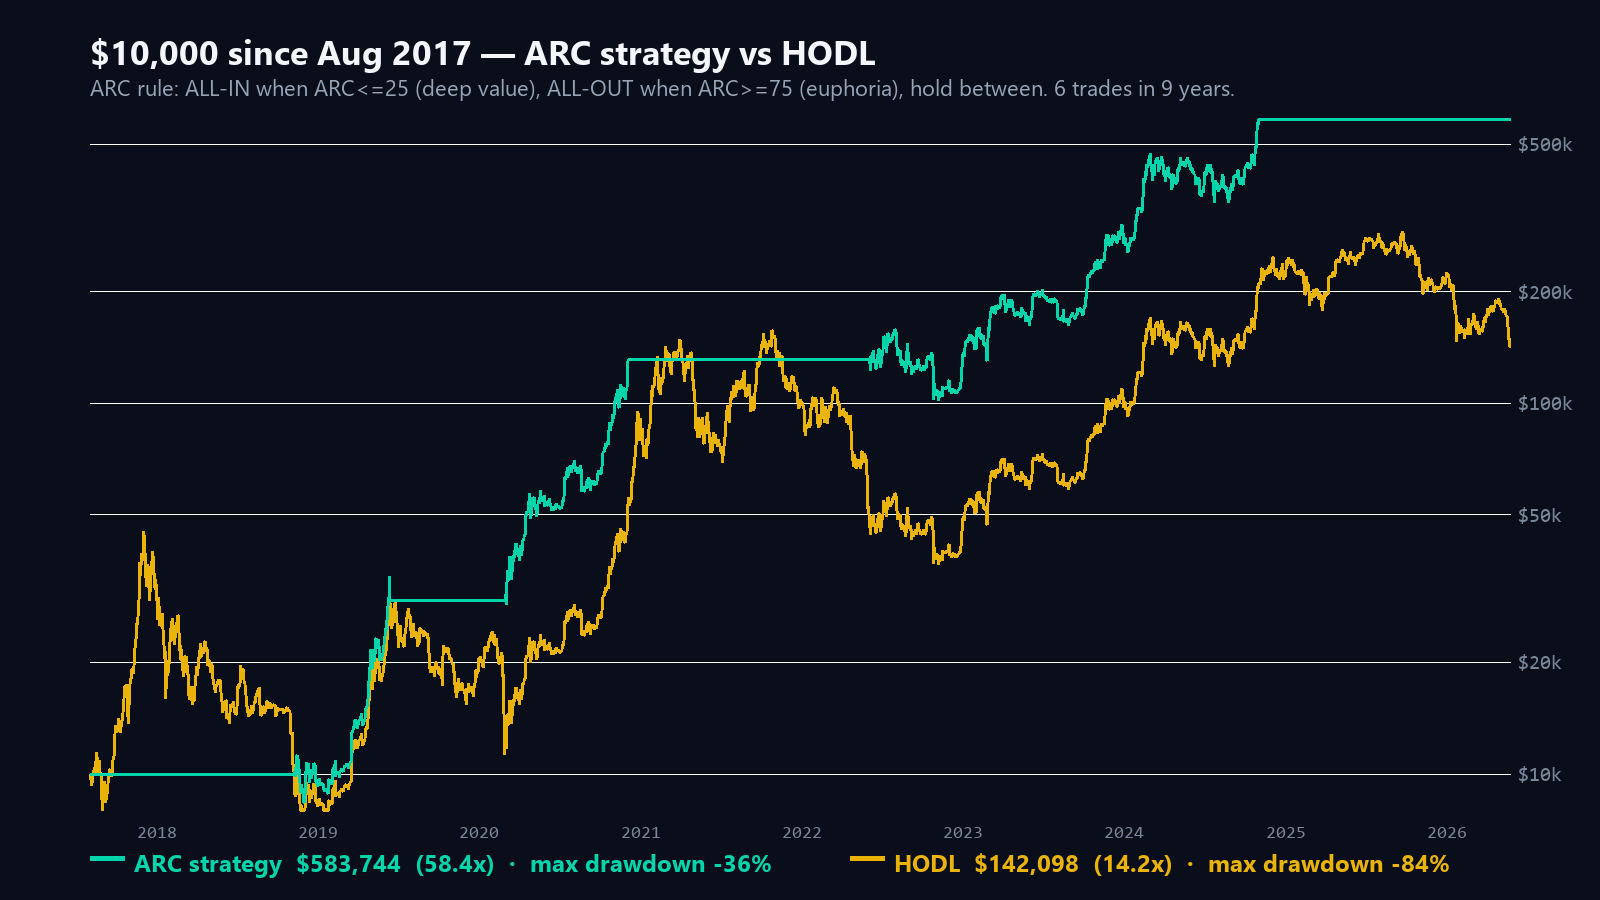
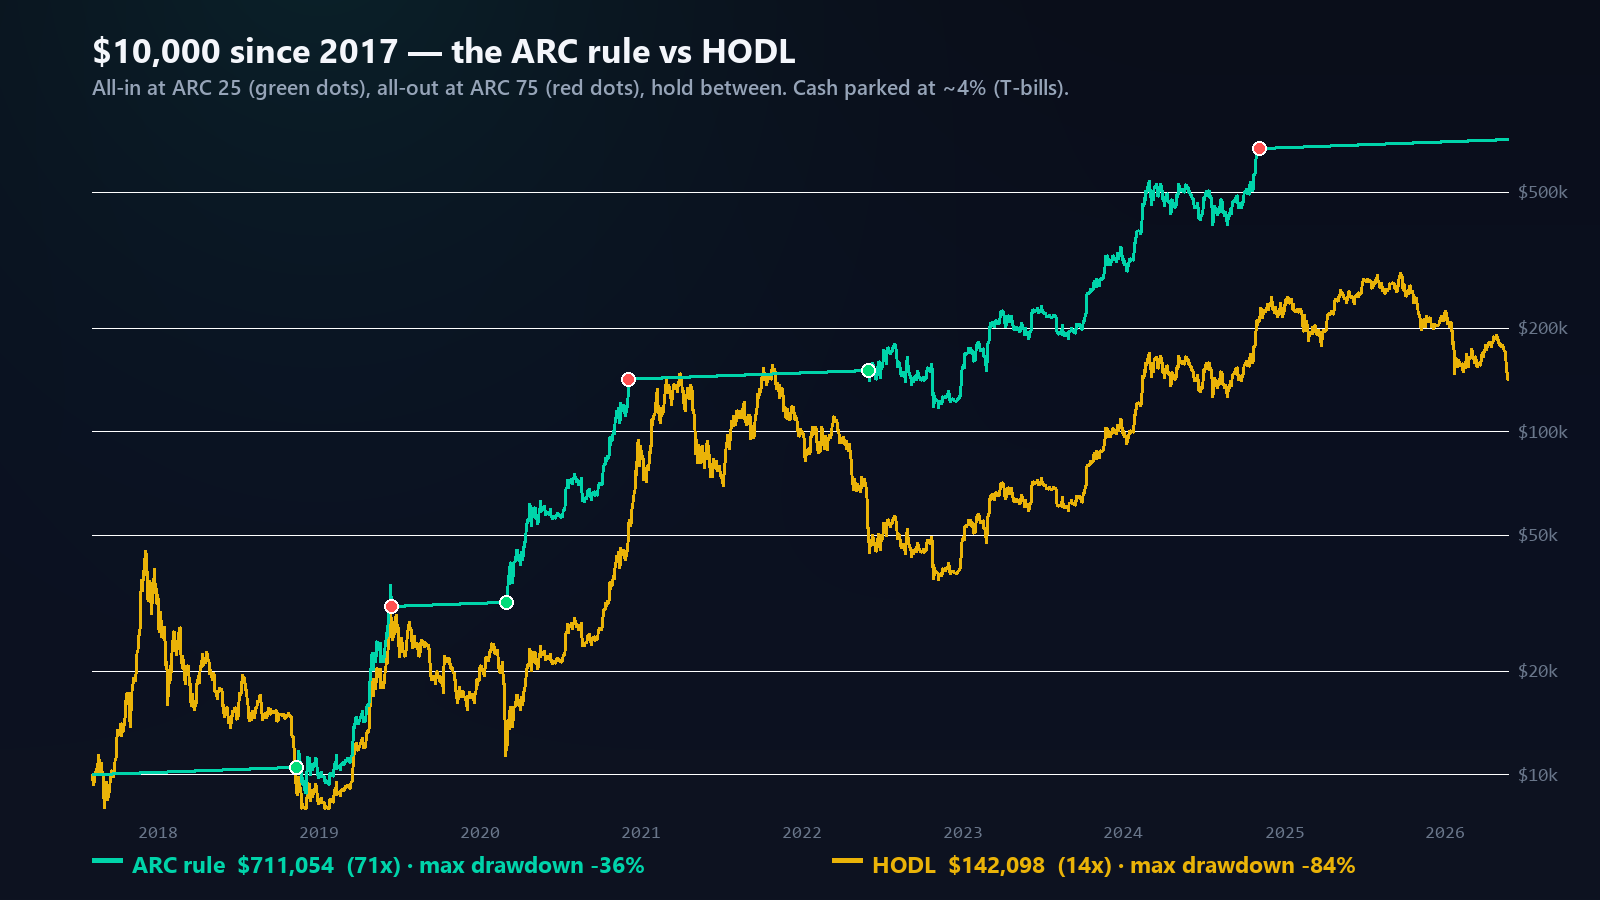
Proof chart: 4% cash yield (no dead-flat line) + buy/sell markers + on-brand styling; numbers updated to 711k/71x/5.0x across landing + dashboard + FAQ

diff --git a/index.html b/index.html
@@ -304,8 +304,8 @@
 <!-- SOCIAL PROOF -->
 <div class="proof reveal">
   <div class="wrap proof-in">
-    <div class="proof-stat"><b>58×</b>$10k → $584k since 2017 (the rule)</div>
-    <div class="proof-stat"><b>4.1×</b>more than buy &amp; hold</div>
+    <div class="proof-stat"><b>71×</b>$10k → $711k since 2017 (the rule)</div>
+    <div class="proof-stat"><b>5.0×</b>more than buy &amp; hold</div>
     <div class="proof-stat"><b>−36%</b>max drawdown vs −84% holding</div>
     <div class="proof-stat"><b>2017</b>backtested on daily data since</div>
   </div>
@@ -320,9 +320,9 @@
       <p>One rule: all-in at ARC 25, all-out at ARC 75, hold the middle. Independently backtested on daily Bitcoin data since August 2017.</p>
     </div>
     <div class="reveal" style="display:flex;gap:18px;flex-wrap:wrap;justify-content:center;margin-bottom:26px;">
-      <div class="ps-card" style="text-align:center;padding:22px 32px;flex:1;min-width:180px;"><div style="font-family:var(--mono);font-size:12px;color:var(--mut);">ARC RULE</div><div style="font-size:34px;font-weight:700;color:var(--amber);line-height:1.2;">$584k</div><div style="font-size:13px;color:var(--mut);">58× · −36% drawdown</div></div>
+      <div class="ps-card" style="text-align:center;padding:22px 32px;flex:1;min-width:180px;"><div style="font-family:var(--mono);font-size:12px;color:var(--mut);">ARC RULE</div><div style="font-size:34px;font-weight:700;color:var(--amber);line-height:1.2;">$711k</div><div style="font-size:13px;color:var(--mut);">71× · −36% drawdown</div></div>
       <div class="ps-card" style="text-align:center;padding:22px 32px;flex:1;min-width:180px;"><div style="font-family:var(--mono);font-size:12px;color:var(--mut);">HODL</div><div style="font-size:34px;font-weight:700;color:#eab308;line-height:1.2;">$142k</div><div style="font-size:13px;color:var(--mut);">14× · −84% drawdown</div></div>
-      <div class="ps-card" style="text-align:center;padding:22px 32px;flex:1;min-width:180px;"><div style="font-family:var(--mono);font-size:12px;color:var(--mut);">EDGE</div><div style="font-size:34px;font-weight:700;color:var(--amber);line-height:1.2;">4.1×</div><div style="font-size:13px;color:var(--mut);">more, at half the risk</div></div>
+      <div class="ps-card" style="text-align:center;padding:22px 32px;flex:1;min-width:180px;"><div style="font-family:var(--mono);font-size:12px;color:var(--mut);">EDGE</div><div style="font-size:34px;font-weight:700;color:var(--amber);line-height:1.2;">5.0×</div><div style="font-size:13px;color:var(--mut);">more, at half the risk</div></div>
     </div>
     <div class="ps-card reveal" style="padding:16px;"><img src="assets/backtest.png" alt="ARC strategy vs HODL since 2017" style="width:100%;border-radius:10px;display:block;"></div>
     <p class="reveal" style="text-align:center;color:var(--dim);font-size:12px;margin-top:14px;font-family:var(--mono);line-height:1.6;">6 trades in 9 years · sits in cash through every bear market · past performance does not guarantee future results · educational, not financial advice</p>
@@ -497,7 +497,7 @@
       <div class="qa reveal"><div class="qa-q">Is this financial advice?<span class="ar">+</span></div><div class="qa-a"><p>No. AlphaCycle measures structural risk — it does not predict price or tell you to buy or sell. It is educational and informational only. Always do your own research.</p></div></div>
       <div class="qa reveal"><div class="qa-q">What data sources do you use?<span class="ar">+</span></div><div class="qa-a"><p>Bitcoin price and OHLC from Kraken, sentiment from the Fear &amp; Greed Index, and liquidity from the Federal Reserve (WALCL, TGA, RRP). All primary, public sources.</p></div></div>
       <div class="qa reveal"><div class="qa-q">How accurate is the model?<span class="ar">+</span></div><div class="qa-a"><p>Every major cycle top and bottom since 2017 falls in the expected zone in backtest. ARC lags by design — it measures the present accurately rather than guessing the future.</p></div></div>
-      <div class="qa reveal"><div class="qa-q">Would following ARC have beaten just holding?<span class="ar">+</span></div><div class="qa-a"><p>In backtest, by a wide margin. One rule — all-in at ARC 25, all-out at ARC 75, hold the middle — turned $10,000 into about $584,000 since 2017, versus roughly $142,000 for buy-and-hold, at −36% max drawdown instead of −84%. It took six trades in nine years. This is an in-sample backtest (the edge holds across a wide range of thresholds, not one magic number); past performance does not guarantee future results.</p></div></div>
+      <div class="qa reveal"><div class="qa-q">Would following ARC have beaten just holding?<span class="ar">+</span></div><div class="qa-a"><p>In backtest, by a wide margin. One rule — all-in at ARC 25, all-out at ARC 75, hold the middle — turned $10,000 into about $711,000 since 2017, versus roughly $142,000 for buy-and-hold, at −36% max drawdown instead of −84%. It took six trades in nine years. This is an in-sample backtest (the edge holds across a wide range of thresholds, not one magic number); past performance does not guarantee future results.</p></div></div>
       <div class="qa reveal"><div class="qa-q">Can I cancel anytime?<span class="ar">+</span></div><div class="qa-a"><p>Yes — Pro is monthly with no lock-in, cancel anytime. And during launch, everything is free.</p></div></div>
     </div>
   </div>

diff --git a/app.html b/app.html
@@ -221,7 +221,7 @@
       <div class="card bigm" id="dr-sell"><div class="k">ARC ≥ 75 · EUPHORIA</div><div class="v" style="font-size:21px;color:#FF3B3B;">SELL · TAKE PROFIT</div><div class="s">exit to cash, wait for the next bottom</div></div>
     </div>
     <div class="card" style="margin-top:14px;text-align:center;padding:16px 20px;border-color:rgba(0,212,170,0.3);background:rgba(0,212,170,0.05);">
-      <span style="font-size:14px;color:var(--ink);">Backtested since 2017: this exact rule turned <b style="color:var(--teal)">$10,000 → $584,000</b> (58×) vs <b>$142,000</b> HODL — at <b style="color:var(--teal)">−36% max drawdown</b> instead of −84%. <span class="note">Past performance ≠ future results.</span></span>
+      <span style="font-size:14px;color:var(--ink);">Backtested since 2017: this exact rule turned <b style="color:var(--teal)">$10,000 → $711,000</b> (71×) vs <b>$142,000</b> HODL — at <b style="color:var(--teal)">−36% max drawdown</b> instead of −84%. <span class="note">Past performance ≠ future results.</span></span>
     </div>
     </div>
   </section>
@@ -232,7 +232,7 @@
     <div class="sec-h">$10,000 since 2017 — the rule vs just holding</div>
     <div class="sec-tells">If you'd followed one rule — <b>all-in at ARC 25, all-out at ARC 75, hold the middle</b> — versus buying and holding Bitcoin the whole way. Same asset, same start. Independently backtested on daily data since August 2017.</div>
     <div class="grid g3" style="margin-bottom:16px;">
-      <div class="card bigm"><div class="k">ARC RULE</div><div class="v" style="color:var(--teal);">$584k</div><div class="s">58× · max drawdown −36%</div></div>
+      <div class="card bigm"><div class="k">ARC RULE</div><div class="v" style="color:var(--teal);">$711k</div><div class="s">71× · max drawdown −36%</div></div>
       <div class="card bigm"><div class="k">HODL</div><div class="v" style="color:#eab308;">$142k</div><div class="s">14× · max drawdown −84%</div></div>
       <div class="card bigm"><div class="k">EDGE</div><div class="v" style="color:var(--teal);">4.1×</div><div class="s">more, at less than half the risk</div></div>
     </div>

diff --git a/dashboard_new.html b/dashboard_new.html
@@ -221,7 +221,7 @@
       <div class="card bigm" id="dr-sell"><div class="k">ARC ≥ 75 · EUPHORIA</div><div class="v" style="font-size:21px;color:#FF3B3B;">SELL · TAKE PROFIT</div><div class="s">exit to cash, wait for the next bottom</div></div>
     </div>
     <div class="card" style="margin-top:14px;text-align:center;padding:16px 20px;border-color:rgba(0,212,170,0.3);background:rgba(0,212,170,0.05);">
-      <span style="font-size:14px;color:var(--ink);">Backtested since 2017: this exact rule turned <b style="color:var(--teal)">$10,000 → $584,000</b> (58×) vs <b>$142,000</b> HODL — at <b style="color:var(--teal)">−36% max drawdown</b> instead of −84%. <span class="note">Past performance ≠ future results.</span></span>
+      <span style="font-size:14px;color:var(--ink);">Backtested since 2017: this exact rule turned <b style="color:var(--teal)">$10,000 → $711,000</b> (71×) vs <b>$142,000</b> HODL — at <b style="color:var(--teal)">−36% max drawdown</b> instead of −84%. <span class="note">Past performance ≠ future results.</span></span>
     </div>
     </div>
   </section>
@@ -232,7 +232,7 @@
     <div class="sec-h">$10,000 since 2017 — the rule vs just holding</div>
     <div class="sec-tells">If you'd followed one rule — <b>all-in at ARC 25, all-out at ARC 75, hold the middle</b> — versus buying and holding Bitcoin the whole way. Same asset, same start. Independently backtested on daily data since August 2017.</div>
     <div class="grid g3" style="margin-bottom:16px;">
-      <div class="card bigm"><div class="k">ARC RULE</div><div class="v" style="color:var(--teal);">$584k</div><div class="s">58× · max drawdown −36%</div></div>
+      <div class="card bigm"><div class="k">ARC RULE</div><div class="v" style="color:var(--teal);">$711k</div><div class="s">71× · max drawdown −36%</div></div>
       <div class="card bigm"><div class="k">HODL</div><div class="v" style="color:#eab308;">$142k</div><div class="s">14× · max drawdown −84%</div></div>
       <div class="card bigm"><div class="k">EDGE</div><div class="v" style="color:var(--teal);">4.1×</div><div class="s">more, at less than half the risk</div></div>
     </div>
